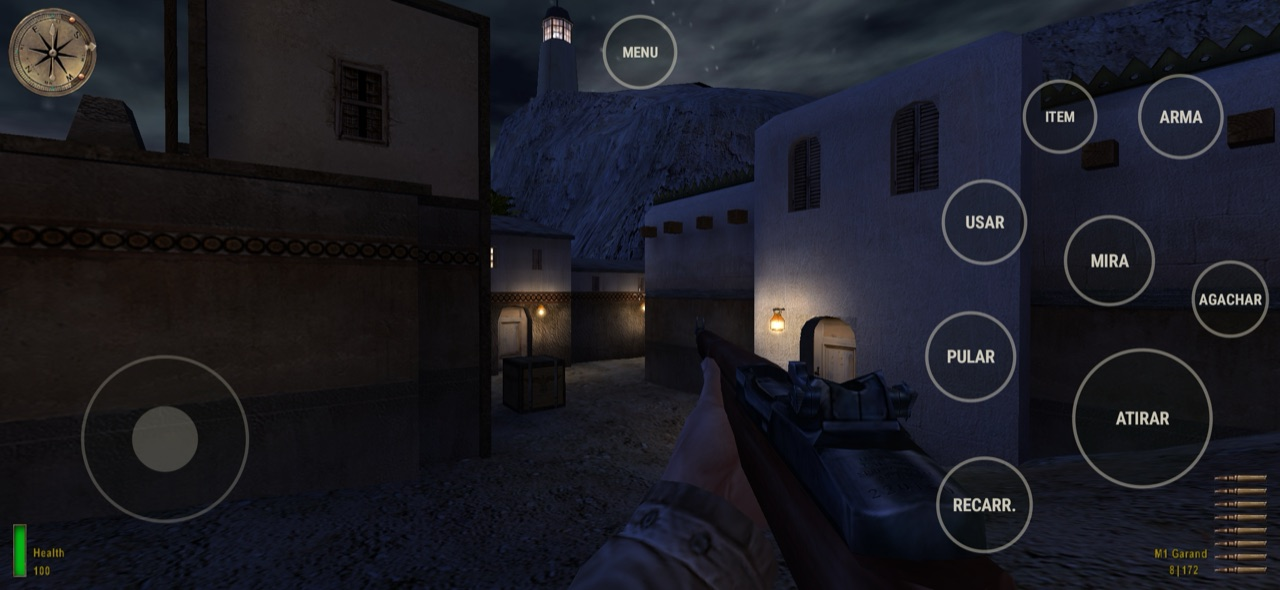
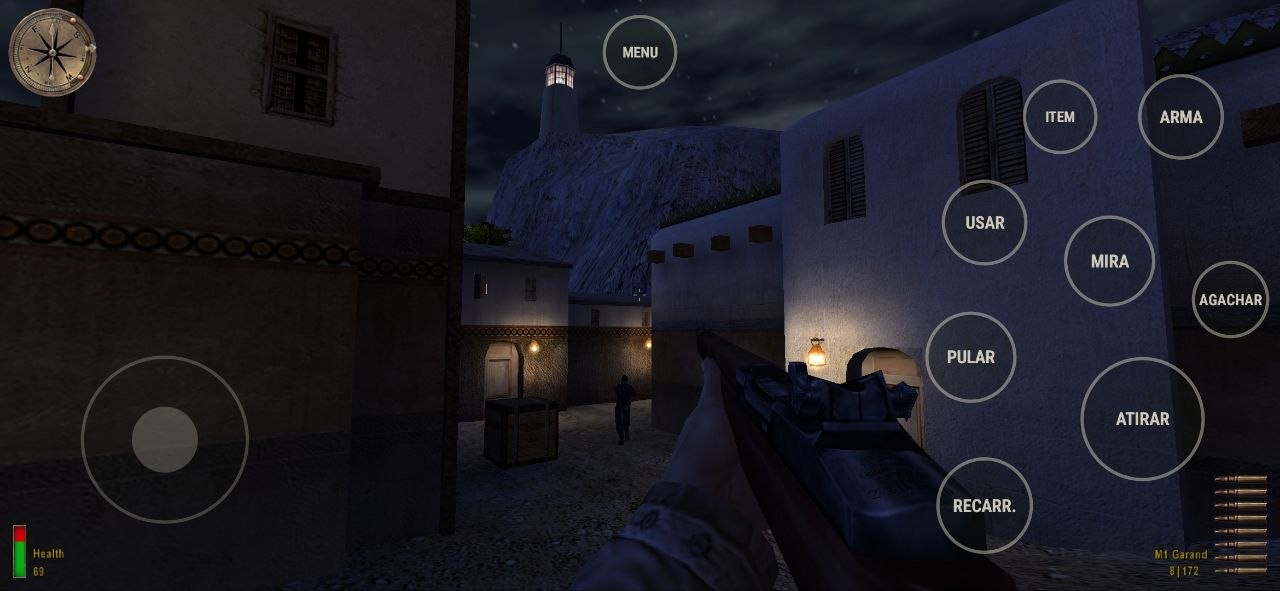
README: updated touch screenshot; first version of the touch controls, feedback welcome

diff --git a/README.pt-BR.md b/README.pt-BR.md
@@ -160,6 +160,9 @@ ignora toques, então um toque sem querer não faz nada).
 
 Um controle continua sendo o melhor jeito de jogar: a mira no analógico é mais precisa.
 
+Esta é a primeira versão dos controles por toque. Comentários e sugestões são bem-vindos nas
+[Issues](../../issues).
+
 ## Requisitos
 
 - Android 8.0 ou mais novo, 64 bits (arm64).

diff --git a/README.md b/README.md
@@ -156,6 +156,9 @@ screen ignores touches, so a stray touch does nothing).
 
 A controller is still the best way to play: aiming with a stick is more precise.
 
+This is the first version of the touch controls. Feedback and suggestions are welcome in
+[Issues](../../issues).
+
 ## Requirements
 
 - Android 8.0 or newer, 64-bit (arm64).
